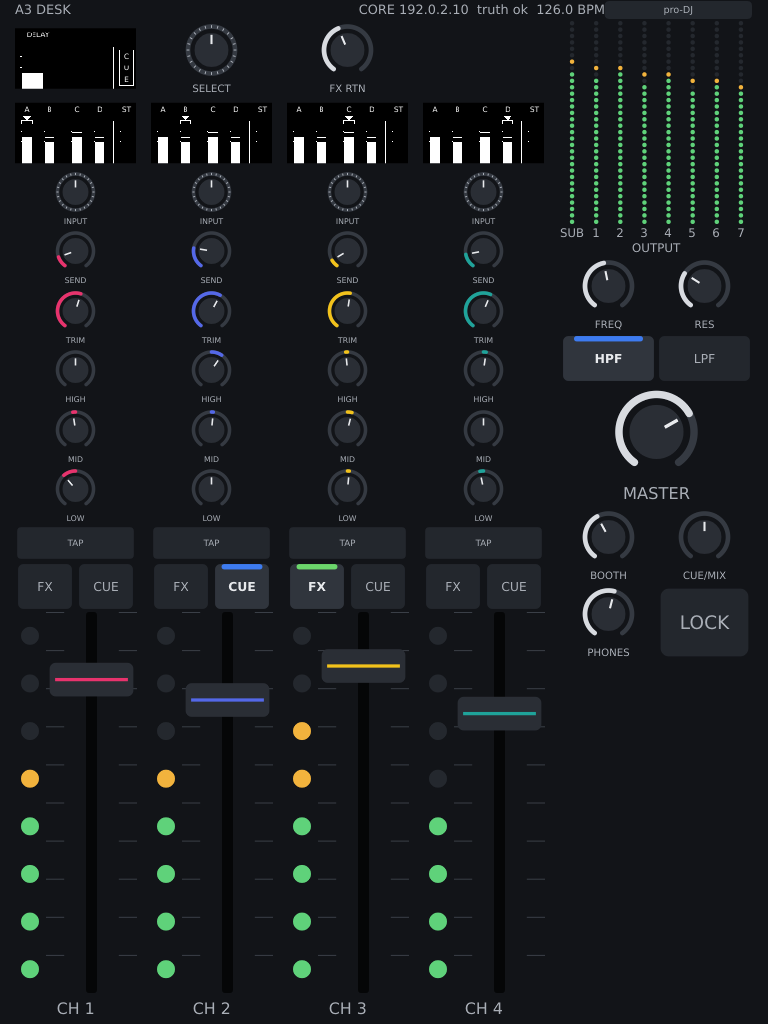
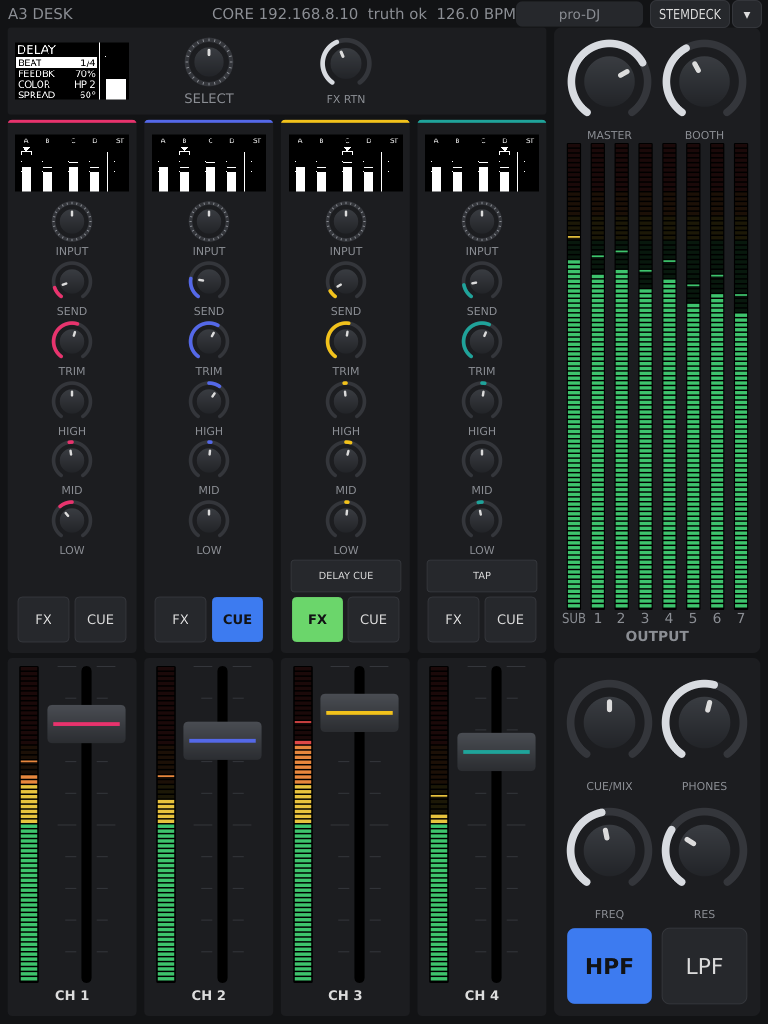
docs(mixer): the desk and the delay display as they look now

diff --git a/src/user/a3mix.md b/src/user/a3mix.md
@@ -214,6 +214,8 @@ The analog inputs 11/12 are no longer a return; nothing plays them.
 The A³ Mixer and the virtual desk work the same way. The display lists four
 rows with their values: **BEAT**, **FEEDBK**, **COLOR**, **SPREAD**.
 
+![The delay display: DELAY over the four rows BEAT, FEEDBK, COLOR and SPREAD with their values, the return's meter on the right; the picked row is lit](pics_user/a3-mix-delay-display.png)
+
 The encoder has two states, and a **push** switches between them:
 
 - **Pick a row**: the whole row is lit. Turn **left** to move **down** the
